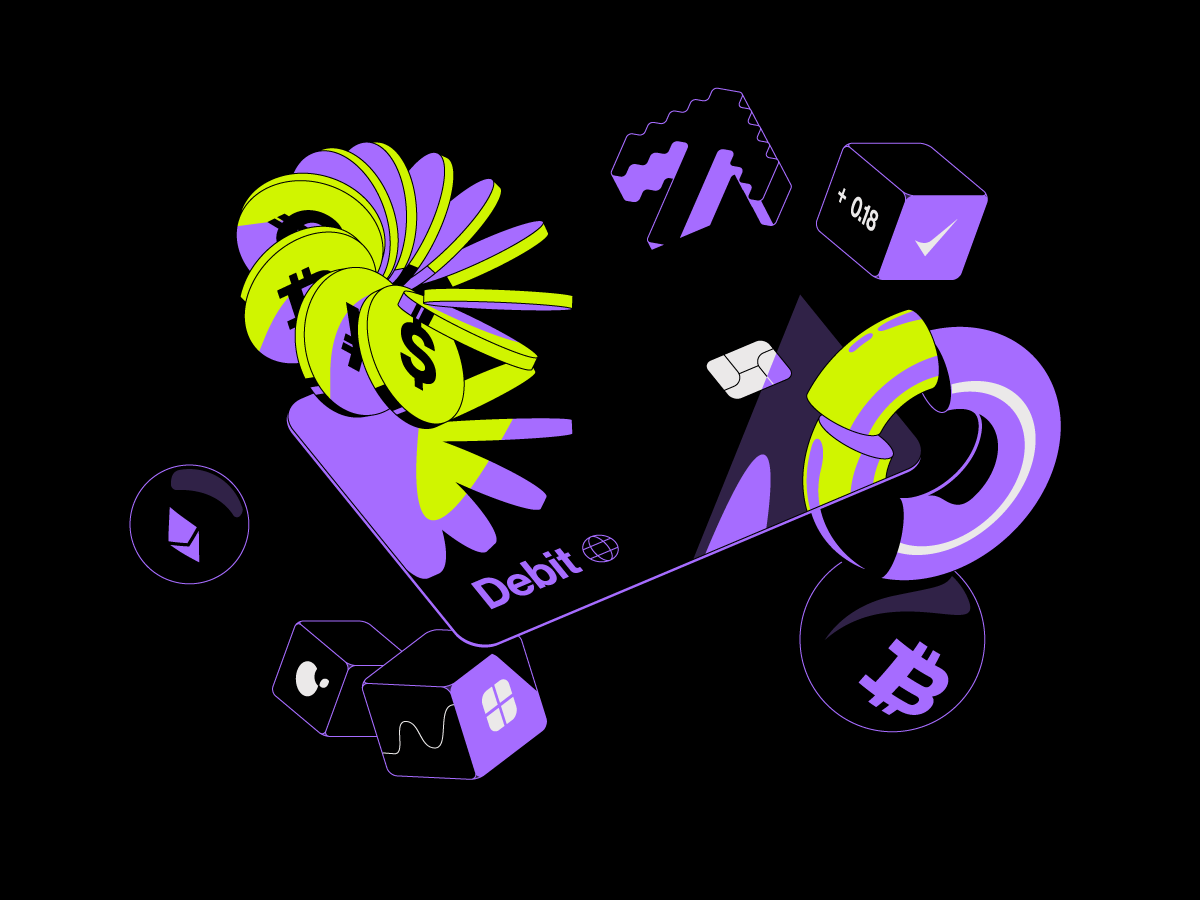
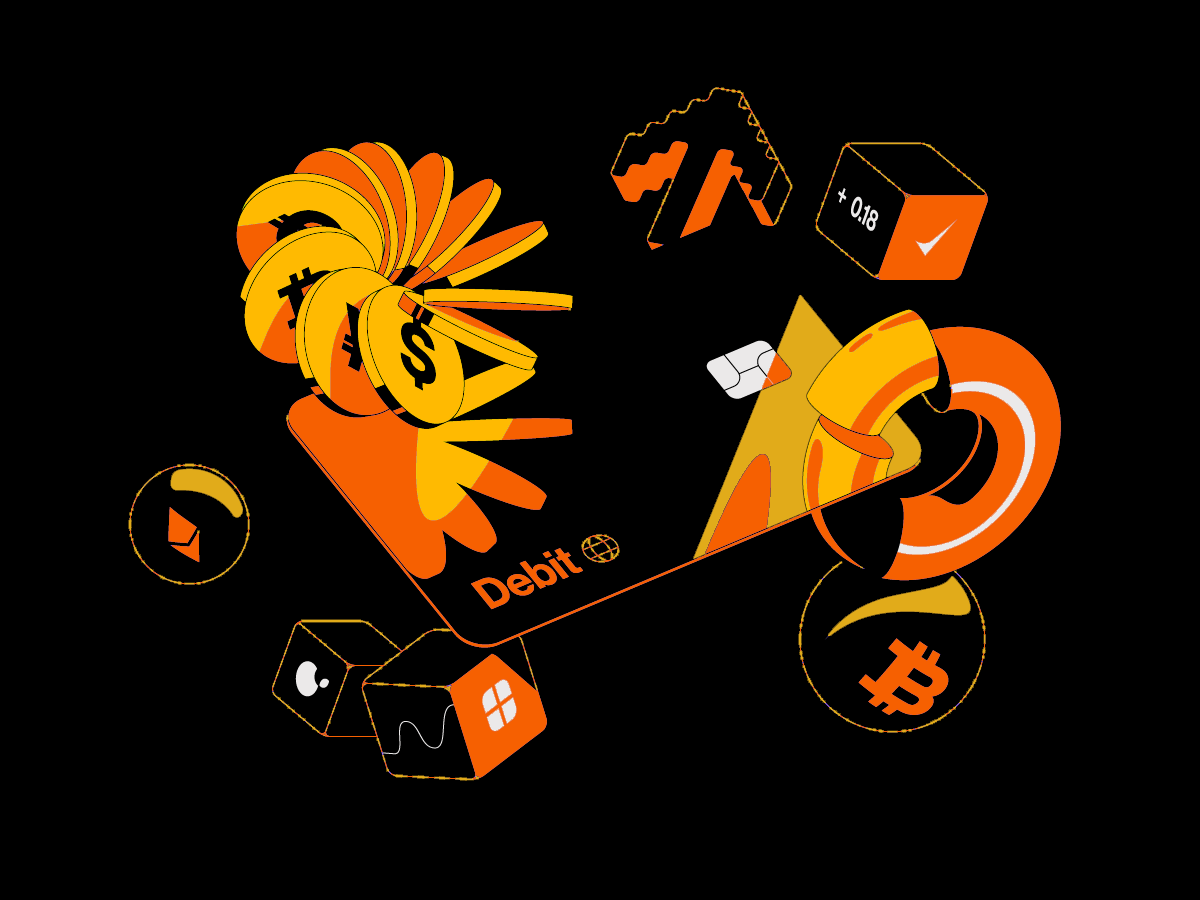
alteração imagens de capa dos projetos

diff --git a/index.html b/index.html
@@ -3,7 +3,7 @@
 <head>
 <meta charset="utf-8">
 <meta name="viewport" content="width=device-width, initial-scale=1">
-<title>Hernandes Matias Junior — Engenharia de Dados</title>
+<title>Hernandes Matias Junior — Dados e Analytics</title>
 <meta name="description" content="Currículo de Hernandes Matias Junior — Tech Lead e Engenheiro de Dados Sênior no Itaú Unibanco.">
 <link rel="preconnect" href="https://fonts.googleapis.com">
 <link rel="preconnect" href="https://fonts.gstatic.com" crossorigin>
@@ -72,10 +72,10 @@
   .hero{display:grid;grid-template-columns:1.15fr .85fr;gap:48px;align-items:center;padding:64px 0 88px}
   .eyebrow{
     font-family:'JetBrains Mono',monospace;font-size:12px;letter-spacing:.14em;
-    text-transform:uppercase;color:var(--lime-deep);margin-bottom:20px;
+    text-transform:uppercase;color:#3c00ff;margin-bottom:20px;
     display:inline-flex;align-items:center;gap:8px;
   }
-  .eyebrow::before{content:"";width:26px;height:1px;background:var(--lime-deep)}
+  .eyebrow::before{content:"";width:26px;height:1px;background:#3c00ff}
   h1{
     font-family:'Space Grotesk',sans-serif;font-weight:700;
     font-size:clamp(38px,5.2vw,60px);line-height:1.04;letter-spacing:-.03em;
@@ -121,7 +121,7 @@
   .card:hover{transform:translateY(-3px);box-shadow:0 1px 2px rgba(18,18,27,.05),0 22px 44px -22px rgba(252,98,0,.35)}
   .grid-2{display:grid;grid-template-columns:1fr 1fr;gap:18px}
 
-  .edu-tier{font-family:'JetBrains Mono',monospace;font-size:11px;text-transform:uppercase;letter-spacing:.12em;color:var(--lime-deep);margin-bottom:18px}
+  .edu-tier{font-family:'JetBrains Mono',monospace;font-size:11px;text-transform:uppercase;letter-spacing:.12em;color:#3c00ff;margin-bottom:18px}
   .edu-item{display:flex;justify-content:space-between;gap:16px;padding:12px 0;border-bottom:1px dashed var(--line)}
   .edu-item:last-child{border-bottom:0;padding-bottom:0}
   .edu-item strong{font-weight:600;font-size:15px;display:block}
@@ -181,6 +181,11 @@
     font-family:'JetBrains Mono',monospace;font-size:12px;color:var(--ink-soft);
     letter-spacing:.08em;text-transform:uppercase;
   }
+  /* variante 3 — laranja */
+  .proj.v-laranja{background:#f66001;color:#ffffff}
+  .proj.v-laranja .proj-media{background:#ffffff}
+  .proj.v-laranja .proj-desc{color:#ffffff}
+  .proj.v-laranja .proj-tag{border-color:rgb(255, 255, 255);color:#ffffff}
 
   .skill-block{margin-bottom:22px}
   .skill-block:last-child{margin-bottom:0}
@@ -231,6 +236,14 @@
     *{animation:none !important;transition:none !important}
     .nav-inner a.cta{background:var(--lime);color:var(--ink)}
   }
+
+  .card.hl{background:#f66001;border-color:#f66001;color:#fff}
+  .card.hl .job-co{color:#fff}
+  .card.hl .job-period,
+  .card.hl .job-note{color:rgba(255,255,255,.75)}
+  .card.hl li{color:#fff}
+  .card.hl li::before{background:rgba(255,255,255,.25);border-color:#fff}
+
 </style>
 </head>
 <body>
@@ -256,11 +269,14 @@
       <h1>Hernandes<br>Matias Junior</h1>
       <p class="lede">Tech Lead e Engenheiro de Dados Sênior no Itaú Unibanco. Sempre tive medo de ficar sem trabalho e isso fez com que eu me qualificasse para poder fazer um monte de coisas.</p>
       <div class="tags">
-        <span class="tag on">Engenharia de dados</span>
-        <span class="tag on">Ciência de dados</span>
+        <span class="tag on">(31) 9 9301-4381</span>
+        <span class="tag on">[email redacted]</span>
+        <span class="tag on">linkedin.com/in/hernandesmjunior</span>
+        <span class="tag">Engenharia de Dados</span>
+        <span class="tag">Ciência de Dados</span>
         <span class="tag">Machine Learning</span>
         <span class="tag">Estatística</span>
-        <span class="tag">AWS</span>
+        <span class="tag">Cloud</span>
         <span class="tag">IA</span>
       </div>
     </div>
@@ -325,11 +341,11 @@
         </div>
         <div class="job-note">Cargo inicial: Engenheiro de Dados Pleno</div>
         <ul>
-          <li>Liderança técnica no desenvolvimento de soluções de dados para produtos de pagamentos (Pix, boletos, TED, débito e TEF), com processamento em larga escala e alta criticidade.</li>
-          <li>Estruturação de dados transacionais (milhões de eventos/dia) e atuação end-to-end no ciclo de dados em ambiente cloud AWS.</li>
-          <li>Colaboração com cientistas de dados na preparação de datasets e viabilização de modelos analíticos.</li>
-          <li>Definição de padrões de arquitetura, qualidade e governança de dados.</li>
-          <li>Automação de acesso e exploração de dados com IA (agentes e engenharia de prompts), apoiando análises e tomada de decisão.</li>
+            Atendendo a Comunidade de Pagamentos e seus principais produtos, como PIX, TED, TEF e Boletos.
+            <p><b>Principais entregas:</b></p>
+          <li>Pipeline que mede o impacto do cadastro no DDA sobre o engajamento do cliente, comparando janelas de 3 meses antes e depois. Consumido por Cientistas de Dados e Engenheiros de Analytics;</li>
+          <li>Tabela SPEC que identifica clientes com propensão ao uso do Hub de Pagamentos, integrando 12 origens de dados (transacionais e de navegação). Produto consumido pelo negócio para direcionar ações de engajamento;</li>
+          <li>Pipeline que consolida boletos emitidos para clientes Itaú Unibanco e mede onde são pagos (no banco ou na concorrência) mapeando a perda de participação nas transações.</li>
         </ul>
         <div class="awards">
           <span class="award">2× prêmio de performance · 2024, 2026</span>
@@ -338,12 +354,14 @@
         </div>
       </div>
 
-      <div class="card">
+      <div class="card hl">
         <div class="job-head">
           <div class="job-role">Cientista de Dados Pleno <span class="job-co">— Localiza</span></div>
           <div class="job-period">out/2021 — jun/2022</div>
         </div>
         <ul>
+            Atuação na área de CRM da empresa, atendendo principalmente o cliente pessoa física.
+            <p><b>Principais entregas:</b></p>
           <li>Segmentação de clientes com machine learning não supervisionado e modelagem RFV aplicada à base de CRM.</li>
           <li>Desenvolvimento de modelos preditivos de propensão e previsão de churn.</li>
           <li>Preparação de dados para modelagem, incluindo seleção de variáveis e engenharia de features.</li>
@@ -357,7 +375,7 @@
           <div class="job-role">Engenheiro de Analytics Pleno <span class="job-co">— Construtora Barbosa Mello</span></div>
           <div class="job-period">out/2020 — out/2021</div>
         </div>
-        <div class="job-note">Cargo inicial: Engenheiro de Dados Júnior</div>
+        <div class="job-note">Cargo inicial: Engenheiro de Analytics Júnior</div>
         <ul>
           <li>Soluções de dados para suporte à decisão em controladoria, suprimentos, compliance e gestão de equipamentos.</li>
           <li>Modelagem e estruturação de dados em data warehouse para definição e acompanhamento de indicadores operacionais e financeiros.</li>
@@ -365,6 +383,9 @@
           <li>Automação de rotinas analíticas e processos de dados com Python.</li>
           <li>Desenvolvimento de aplicações corporativas com Power Apps e interação direta com áreas de negócio para levantamento e tradução de requisitos.</li>
         </ul>
+        <div class="awards">
+          <span class="award">1× promoção interna em menos de um ano de empresa · 2021</span>
+        </div>
       </div>
 
     </div>
@@ -399,6 +420,24 @@
       </a>
 
       <!-- PROJETO 2 -->
+    <a class="proj v-laranja" href="#">
+        <div class="proj-media">
+          <img src="imagens/risco_de_credito.png" alt="Projeto de risco de crédito">
+        </div>
+        <div class="proj-body">
+          <h3 class="proj-title">Risco de crédito</h3>
+          <p class="proj-desc">Descrição do projeto — substitua por dois períodos curtos explicando o problema e o resultado.</p>
+          <div class="proj-tags">
+            <span class="proj-tag">Scorecard</span>
+            <span class="proj-tag">WOE / IV</span>
+            <span class="proj-tag">Python</span>
+          </div>
+        </div>
+      </a>
+
+
+      <!-- PROJETO 3 — espaço reservado -->
+
       <a class="proj v-dark" href="#">
         <div class="proj-media">
           <img src="imagens/clusterizacao_de_clientes.png" alt="Segmentação de clientes">
@@ -413,22 +452,7 @@
           </div>
         </div>
       </a>
-
-      <!-- PROJETO 3 — espaço reservado -->
-      <a class="proj v-light" href="#">
-        <div class="proj-media">
-          <img src="imagens/risco_de_credito.jpg" alt="Projeto de risco de crédito">
-        </div>
-        <div class="proj-body">
-          <h3 class="proj-title">Risco de crédito</h3>
-          <p class="proj-desc">Descrição do projeto — substitua por dois períodos curtos explicando o problema e o resultado.</p>
-          <div class="proj-tags">
-            <span class="proj-tag">Scorecard</span>
-            <span class="proj-tag">WOE / IV</span>
-            <span class="proj-tag">Python</span>
-          </div>
-        </div>
-      </a>
+      
 
       <!-- PROJETO 3 — espaço reservado -->
       <a class="proj v-light" href="#">
@@ -436,7 +460,7 @@
           <div class="proj-slot">Imagem em breve</div>
         </div>
         <div class="proj-body">
-          <h3 class="proj-title">Próximo projeto</h3>
+          <h3 class="proj-title">[Em breve] Análise de sobrevivência</h3>
           <p class="proj-desc">Descrição do projeto — substitua por dois períodos curtos explicando o problema e o resultado.</p>
           <div class="proj-tags">
             <span class="proj-tag">Tag</span>
@@ -452,7 +476,7 @@
           <div class="proj-slot">Imagem em breve</div>
         </div>
         <div class="proj-body">
-          <h3 class="proj-title">Próximo projeto</h3>
+          <h3 class="proj-title">[Em breve] Ingestão e modelagem de dados</h3>
           <p class="proj-desc">Descrição do projeto — substitua por dois períodos curtos explicando o problema e o resultado.</p>
           <div class="proj-tags">
             <span class="proj-tag">Tag</span>
@@ -468,7 +492,7 @@
           <div class="proj-slot">Imagem em breve</div>
         </div>
         <div class="proj-body">
-          <h3 class="proj-title">Próximo projeto</h3>
+          <h3 class="proj-title">[Em breve] Agente de consulta a dados</h3>
           <p class="proj-desc">Descrição do projeto — substitua por dois períodos curtos explicando o problema e o resultado.</p>
           <div class="proj-tags">
             <span class="proj-tag">Tag</span>